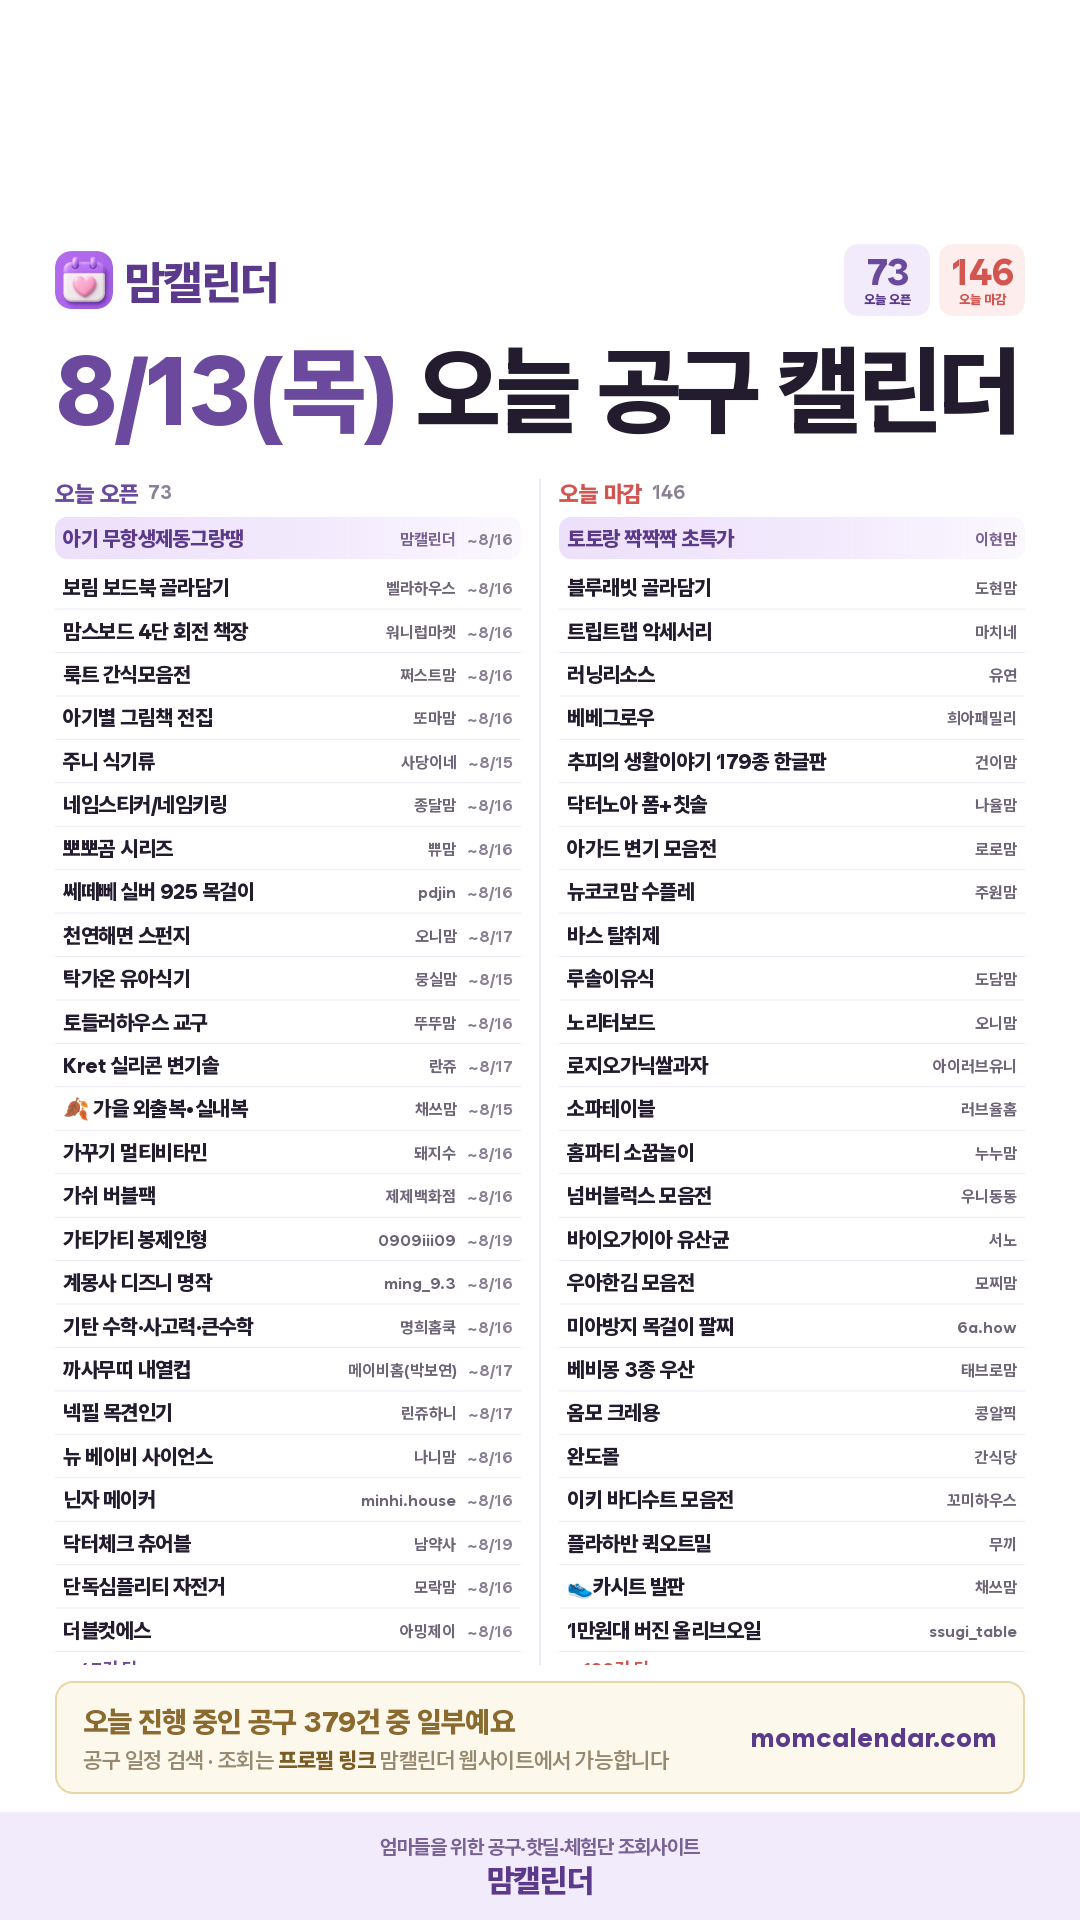
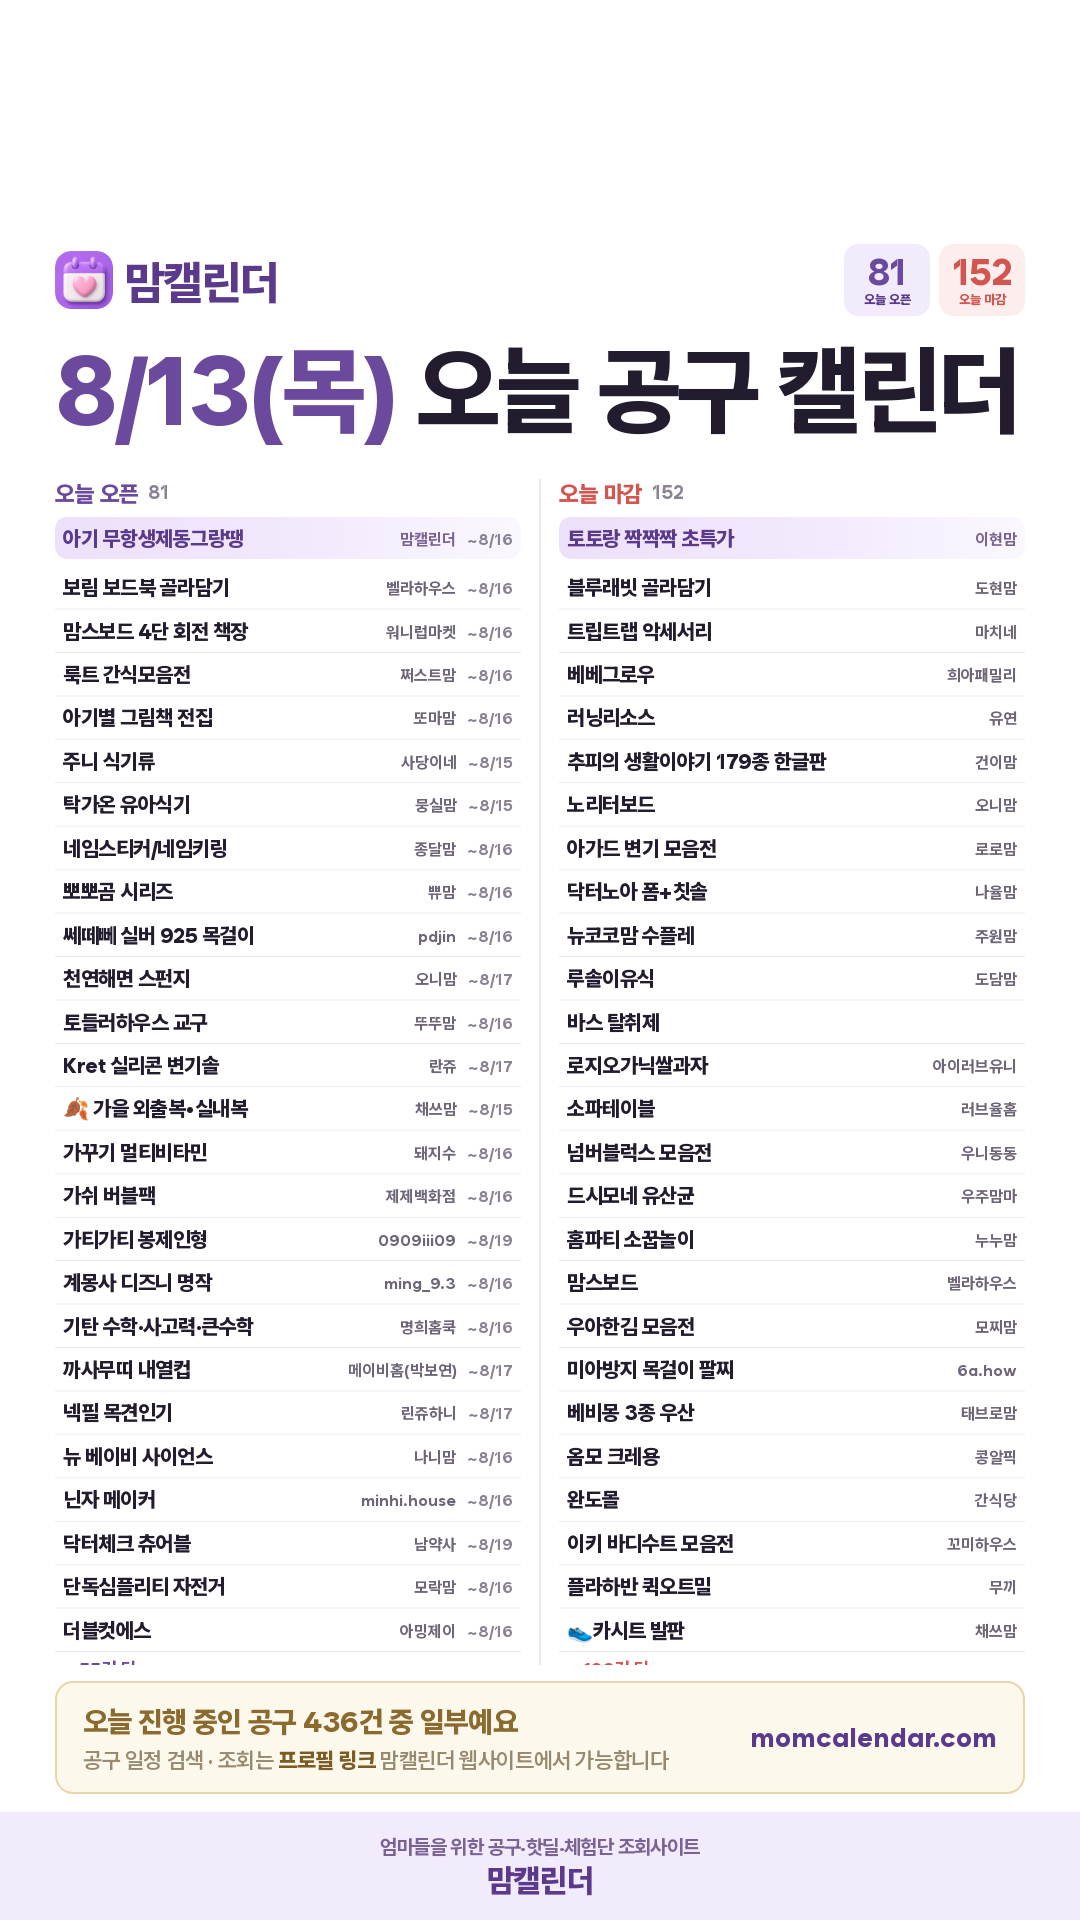
아침 인스타 카드 (2026-08-13)

diff --git a/daily/2026-08-13.html b/daily/2026-08-13.html
@@ -19,7 +19,7 @@ textarea{width:100%;height:260px;border:1px solid #E3DCEF;border-radius:10px;pad
 .todo p{font-size:12.5px;color:#6B6379;line-height:1.75;margin-top:6px}
 .todo a{color:#5B2E8C;font-weight:700}
 </style></head><body>
-<div class="hd"><div class="wrap"><h1>8월 13일(목) 인스타 카드</h1><p>오픈 73건 · 마감 146건</p></div></div>
+<div class="hd"><div class="wrap"><h1>8월 13일(목) 인스타 카드</h1><p>오픈 81건 · 마감 152건</p></div></div>
 <div class="wrap">
   <div class="todo"><b>사장님 확인 부탁드려요 · 링크프라이스 · 오늘의집 제휴 신청 (각 5분)</b><p>핫딜을 우리 수익링크로 바꿀 수 있는 곳을 늘리는 일입니다.<br>
     ① <b>링크프라이스</b> 로그인 → 머천트 검색 → <b>오늘의집·SSG</b> 제휴 신청
@@ -36,7 +36,7 @@ textarea{width:100%;height:260px;border:1px solid #E3DCEF;border-radius:10px;pad
 맘캘린더에서 공유드리는
 8월 13일(목) 오늘 공구 캘린더
 
-오픈 70건 · 마감 111건
+오픈 77건 · 마감 117건
 
 ━━━━━━━━━━━━━━
 
@@ -49,11 +49,11 @@ textarea{width:100%;height:260px;border:1px solid #E3DCEF;border-radius:10px;pad
 · 룩트 간식모음전 — 쩌스트맘 (~8/16)
 · 아기별 입체놀이 그림책 전집 — 또마맘 (~8/16)
 · 주니 식기류 — 사당이네 (~8/15)
+· 탁가온 유아식기 — 뭉실맘 (~8/15)
 · 도트앤라인 네임스티커/네임키링 — 종달맘 (~8/16)
 · 뽀뽀곰 시리즈 — 쀼맘 (~8/16)
 · 쎄떼뻬 미아방지 실버 925 목걸이 — pdjin (~8/16)
 · 천연해면 스펀지 — 오니맘 (~8/17)
-· 탁가온 유아식기 — 뭉실맘 (~8/15)
 · 토들러하우스 몬테소리 교구 2차 — 뚜뚜맘 (~8/16)
 · Kret 변기세정제·실리콘 변기솔 — 란쥬 (~8/17)
 · 🍂 일프로 가을 외출복•실내복 — 채쓰맘 (~8/15)
@@ -70,33 +70,34 @@ textarea{width:100%;height:260px;border:1px solid #E3DCEF;border-radius:10px;pad
 · 단독심플리티 자전거 — 모락맘 (~8/16)
 · 더블컷에스 — 아밍제이 (~8/16)
 · 데일리야채 그린스틱 — __kang.yaksa (~8/20)
+· 도스칫솔 — yujunmom0628 (~8/16)
 · 두둥맘 pick 곰탕 — 두둥맘 (~8/15)
 · 디어커스 뱀부 휴지 — 밀커블 (~8/17)
 · 라무르 모기밤·쿨링젤 — 유주맘(윤예진) (~8/16)
 · 라자가구 헤이븐 쇼파 2차 — 루아홈 (~8/16)
+· 루미너스 펄 리파이닝 토너 — yoon__bling (~8/18)
 · 리뉴얼 후 첫 런칭 안토 with CJ — 우니동동 (~8/17)
-· 리브러쉬 3차 — 드엘리사 (~8/19)
-· 마이키즈 — 유주맘(박은영) (~8/21)
-…나머지 36건은 맘캘린더 사이트에서 보실 수 있어요
+…나머지 43건은 맘캘린더 사이트에서 보실 수 있어요
 
 ⏰ 오늘 마감하는 공구
 · 토토랑 짝짝짝 초특가 — 이현맘 @ihyeon_mom_251125
 · 블루래빗 골라담기 — 도현맘
 · 트립트랩 악세서리 — 마치네
-· 러닝리소스 — 유연
 · 베베그로우 — 희아패밀리
+· 러닝리소스 — 유연
 · 추피의 생활이야기 179종 한글판 — 건이맘
-· 닥터노아 폼+칫솔 — 나율맘
-· 아가드 변기 모음전 — 로로맘
-· 뉴코코맘 수플레 — 주원맘
-· 바스 탈취제 — 
-· 루솔이유식 — 도담맘
 · 노리터보드 — 오니맘
+· 아가드 변기 모음전 — 로로맘
+· 닥터노아 폼+칫솔 — 나율맘
+· 뉴코코맘 수플레 — 주원맘
+· 루솔이유식 — 도담맘
+· 바스 탈취제 — 
 · 로지오가닉쌀과자 유기농아기쌀과자 공동구매 단독구성 — 아이러브유니
 · 소파테이블 — 러브율홈
-· 홈파티 소꿉놀이 — 누누맘
 · 넘버블럭스 모음전 — 우니동동
-· 바이오가이아 유산균 — 서노
+· 드시모네 유산균 — 우주맘마
+· 홈파티 소꿉놀이 — 누누맘
+· 맘스보드 — 벨라하우스
 · 우아한김 모음전 — 모찌맘
 · 미아방지 목걸이 팔찌 — 6a.how
 · 베비몽 3종 우산 — 태브로맘
@@ -112,8 +113,7 @@ textarea{width:100%;height:260px;border:1px solid #E3DCEF;border-radius:10px;pad
 · 나비타 올스타전 — 도하상점
 · 나오나우 화상영어 — 서찬서가
 · 뉴이 클라우드 부스터 — 밤줌미네
-· 데코아르 미니초퍼 — 트민녀
-…나머지 78건은 맘캘린더 사이트에서 보실 수 있어요
+…나머지 84건은 맘캘린더 사이트에서 보실 수 있어요
 
 ━━━━━━━━━━━━━━
 
@@ -126,12 +126,12 @@ textarea{width:100%;height:260px;border:1px solid #E3DCEF;border-radius:10px;pad
 ⚠ 공구 일정은 판매자 사정에 따라 변경되거나 조기 마감될 수 있어요. 구매 전에 해당 셀러 계정에서 한 번 더 확인해 주세요.
 
 #맘캘린더 #공구일정 #육아공구 #육아용품 #책육아 #오늘의공구 #공구추천 #육아맘 #맘스타그램 #공동구매 #육아정보 #공구정보</textarea>
-    <div class="meta">2180자 / 2200자 · 오픈 33/69 · 마감 33/111</div>
+    <div class="meta">2195자 / 2200자 · 오픈 33/76 · 마감 33/117</div>
     <button class="btn btn2" onclick="cp('cap','캡션')">캡션 복사</button>
   </div>
   <div class="card">
     <div class="meta" style="margin:0 0 8px;font-weight:800;color:#5B2E8C">네이버 블로그용 (blog.naver.com/momcal) — 수정해서 쓰셔도 돼요</div>
-    <textarea id="btitle" style="height:54px">8월 13일(목) 인스타 공구일정 사이트 | 고요아·닌자·가꾸기·더블컷에스·데일리야채·리뉴얼·모로오렌지·베투키 공구 오픈</textarea>
+    <textarea id="btitle" style="height:54px">8월 13일(목) 인스타 공구일정 사이트 | 고요아·닌자·이동식TV·가꾸기·더블컷에스·데일리야채·리뉴얼·모로오렌지 공구 오픈</textarea>
     <button class="btn btn2" onclick="cp('btitle','블로그 제목')">블로그 제목 복사</button>
     <textarea id="bbody" style="margin-top:9px">맘캘린더 채널 한눈에
 · 전체 공구 일정 실시간 검색 → https://momcalendar.com
@@ -144,18 +144,19 @@ textarea{width:100%;height:260px;border:1px solid #E3DCEF;border-radius:10px;pad
 · 카톡 수다방 → https://open.kakao.com/o/gr2kJhCh
 ─────────────
 
-8월 13일(목), 오늘 새로 오픈하는 인스타 공구일정 74건을 카테고리별로 정리했어요.
-오늘 마감되는 공구도 148건 있으니 놓치지 마세요.
+8월 13일(목), 오늘 새로 오픈하는 인스타 공구일정 82건을 카테고리별로 정리했어요.
+오늘 마감되는 공구도 154건 있으니 놓치지 마세요.
 
 (여기에 저장해 두신 카드 사진을 넣어주세요)
 
-■ 오늘 오픈하는 공구 74건
+■ 오늘 오픈하는 공구 82건
 
 [육아]
 · 계몽사 디즈니 명작 — ming_9.3 (~8/16 마감)
 · 기탄 수학·사고력·큰수학 — 명희홈쿡 (~8/16 마감)
 · 뉴 베이비 사이언스 — 나니맘 (~8/16 마감)
 · 단독심플리티 자전거 — 모락맘 (~8/16 마감)
+· 도스칫솔 — yujunmom0628 (~8/16 마감)
 · 도트앤라인 네임스티커/네임키링 — 종달맘 (~8/16 마감)
 · 룩트 간식모음전 — 쩌스트맘 (~8/16 마감)
 · 마이키즈 — 유주맘(박은영) (~8/21 마감)
@@ -201,6 +202,7 @@ textarea{width:100%;height:260px;border:1px solid #E3DCEF;border-radius:10px;pad
 · 두둥맘 pick 곰탕 — 두둥맘 (~8/15 마감)
 · 엉파 2차 목초우·이베리코·양 — 안감자 (~8/17 마감)
 · 올여름 마지막 승천냉면 — 대장언니 (~8/16 마감)
+· 초정담 — yujunmom0628 (~8/16 마감)
 · 티즌 하루호박차 — 레이첼민선 (~8/18 마감)
 · 페이장 — 약빵약사 (~8/16 마감)
 · 하늘봄 — 나율맘 (~8/17 마감)
@@ -212,6 +214,7 @@ textarea{width:100%;height:260px;border:1px solid #E3DCEF;border-radius:10px;pad
 · 리뉴얼 후 첫 런칭 안토 with CJ — 우니동동 (~8/17 마감)
 · 모로오렌지 — 곰부인네 (~8/18 마감)
 · 베투키 비타씨씨 — 자신있는약상담 (~8/19 마감)
+· 부기너스 — 양미라 (~8/16 마감)
 · 온가족 비타민DK2 1000IU — yak_father (~8/19 마감)
 · 파이토블락 아기 비염 — 조엘맘 (~8/17 마감)
 · 헤모 키즈 에너지 철분 — 모찌맘 (~8/16 마감)
@@ -219,6 +222,7 @@ textarea{width:100%;height:260px;border:1px solid #E3DCEF;border-radius:10px;pad
 [뷰티]
 · 가쉬 버블팩 — 제제백화점 (~8/16 마감)
 · 라무르 모기밤·쿨링젤 — 유주맘(윤예진) (~8/16 마감)
+· 루미너스 펄 리파이닝 토너 — yoon__bling (~8/18 마감)
 · 리브러쉬 3차 — 드엘리사 (~8/19 마감)
 · 모제림 4종 여름 기획전 — sani_and_haeng (~8/16 마감)
 · 슬리미아 스크럽u&amp;미스트 1차 — 탱이언니 (~8/16 마감)
@@ -229,14 +233,18 @@ textarea{width:100%;height:260px;border:1px solid #E3DCEF;border-radius:10px;pad
 [가전]
 · 고요아 실링팬 — 러브율홈 (~8/19 마감)
 · 닌자 크리미 아이스크림 메이커 — minhi.house (~8/16 마감)
+· 이동식TV 프레미디 — yummy_salrim (~8/17 마감)
 
 [패션]
 · 벤시몽 맘커플신발 — 도하상점 (~8/17 마감)
 · 쎄떼뻬 미아방지 실버 925 목걸이 — pdjin (~8/16 마감)
+· 아노에틱 — xhin.world (~8/16 마감)
 · 카프스킨 미디엄백 — mimiwor (~8/19 마감)
+· 타투스티커 누태츠 — yoiunni (~8/16 마감)
 
 [여행]
 · 마카오 스튜디오 시티 자유여행 패키지 — _gonoz (~8/16 마감)
+· 베트남 푸꾸옥 에어텔 — yeoniiique (~8/16 마감)
 · 인도네시아 마나도 — 우주맘마 (~8/16 마감)
 
 [인테리어]
@@ -245,7 +253,7 @@ textarea{width:100%;height:260px;border:1px solid #E3DCEF;border-radius:10px;pad
 [반려동물]
 · 가티가티 봉제인형 — 0909iii09 (~8/19 마감)
 
-■ 오늘 마감하는 공구 148건
+■ 오늘 마감하는 공구 154건
 · 👟카시트 발판 (니가드/베베루트) — 채쓰맘
 · 🚙 폴디 주니어 카시트 2차 — 채쓰맘
 · 1만원대 엑스트라 버진 올리브오일 — ssugi_table
@@ -267,6 +275,7 @@ textarea{width:100%;height:260px;border:1px solid #E3DCEF;border-radius:10px;pad
 · 뉴이 클라우드 부스터 — 밤줌미네
 · 뉴코코맘 수플레 — 주원맘
 · 닥터노아 폼+칫솔 — 나율맘
+· 닥터세니클 — 이준맘(임수빈)
 · 데코아르 멜로우 시리즈 — 러브율홈
 · 데코아르 미니초퍼 — 트민녀
 · 데코아르 윈드맥스 에어건 — foryou_home87
@@ -300,6 +309,7 @@ textarea{width:100%;height:260px;border:1px solid #E3DCEF;border-radius:10px;pad
 · 뮤쥬벨 미아방지 목걸이 — 육아노하우
 · 뮴 키즈 스마트 오메가3 구미 — 
 · 미니 드라이기 2차 — 마이어홈
+· 미미뻥 — 뽀물맘
 · 미아방지 목걸이 팔찌 — 6a.how
 · 미틀리 목초우 소고기칩 — dongu0929
 · 밀크하우스 요거쪽쪽 — 
@@ -309,6 +319,7 @@ textarea{width:100%;height:260px;border:1px solid #E3DCEF;border-radius:10px;pad
 · 방산가위 — 마리에뜰
 · 배도라지차&amp;눈에는아이차 — 희야
 · 버틀러 — 곰부인네
+· 범인찾기 시리즈 — yujunmom0628
 · 베베그로우 — 희아패밀리
 · 베베누보 래쉬가드 — 돼지수
 · 베베누보 래쉬가드+아쿠아슈즈+버킷햇 — 
@@ -322,9 +333,11 @@ textarea{width:100%;height:260px;border:1px solid #E3DCEF;border-radius:10px;pad
 · 비오비타 엠엔엠 멀티비타민 — 
 · 비지베어 영어도서 — 이이홈
 · 빼독팩 3차 — song_rina
+· 뽀로로 놀이 분필 — 도하맘
 · 쁘리엘르 낮잠이불 풀세트 — 
 · 쁘리엘르 코튼캔디 아사 피그먼트 베개커버 1+1 — genie__house__
 · 사가 트립트랩 뉴본커버 &amp; 방수쿠션 — 마치네
+· 샤크 터보 블레이드 — 어퍼하우스
 · 세계적인 UREX 질 유산균 엘레나 — 삐약약사
 · 소금집 2차 — 하이쩡
 · 소파테이블 — 러브율홈
@@ -357,6 +370,7 @@ textarea{width:100%;height:260px;border:1px solid #E3DCEF;border-radius:10px;pad
 · 와일드랩 요거트퐁당 — 0909iii09
 · 완도몰 — 간식당
 · 우아한김 모음전 — 모찌맘
+· 웰케이 채수 — 소희맘
 · 유아식 아기닭죽 — 소담살림
 · 유주맘 pick 화상영어 — 유주맘(윤예진)
 · 유트리션 리포좀 비타민C — spring_pharmy
@@ -397,7 +411,7 @@ textarea{width:100%;height:260px;border:1px solid #E3DCEF;border-radius:10px;pad
 
 ※ 공구 일정은 판매자 사정에 따라 변경되거나 조기 마감될 수 있어요. 구매 전에 해당 셀러 계정에서 한 번 더 확인해 주세요.
 
-#공구일정 #인스타공구 #인스타공구일정 #공동구매 #오늘의공구 #육아공구 #공구모음 #고요아공구 #닌자공구 #가꾸기공구 #더블컷에스공구 #데일리야채공구 #리뉴얼공구 #모로오렌지공구 #베투키공구</textarea>
+#공구일정 #인스타공구 #인스타공구일정 #공동구매 #오늘의공구 #육아공구 #공구모음 #고요아공구 #닌자공구 #이동식TV공구 #가꾸기공구 #더블컷에스공구 #데일리야채공구 #리뉴얼공구 #모로오렌지공구</textarea>
     <button class="btn" onclick="cp('bbody','블로그 본문 전체')">블로그 본문 전체 복사 (태그 포함)</button>
     <div class="meta">순서: 사진 저장 → 블로그 앱 글쓰기 → 제목 붙여넣기 → 본문 붙여넣기 → (여기에 카드 사진) 자리에 사진 → 발행. 끝의 #태그들은 자동으로 태그가 돼요</div>
   </div>

diff --git a/daily/index.html b/daily/index.html
@@ -1,1 +1,1 @@
-<!DOCTYPE html><meta charset="UTF-8"><meta http-equiv="refresh" content="0;url=./2026-08-19.html">
+<!DOCTYPE html><meta charset="UTF-8"><meta http-equiv="refresh" content="0;url=./2026-08-13.html">
